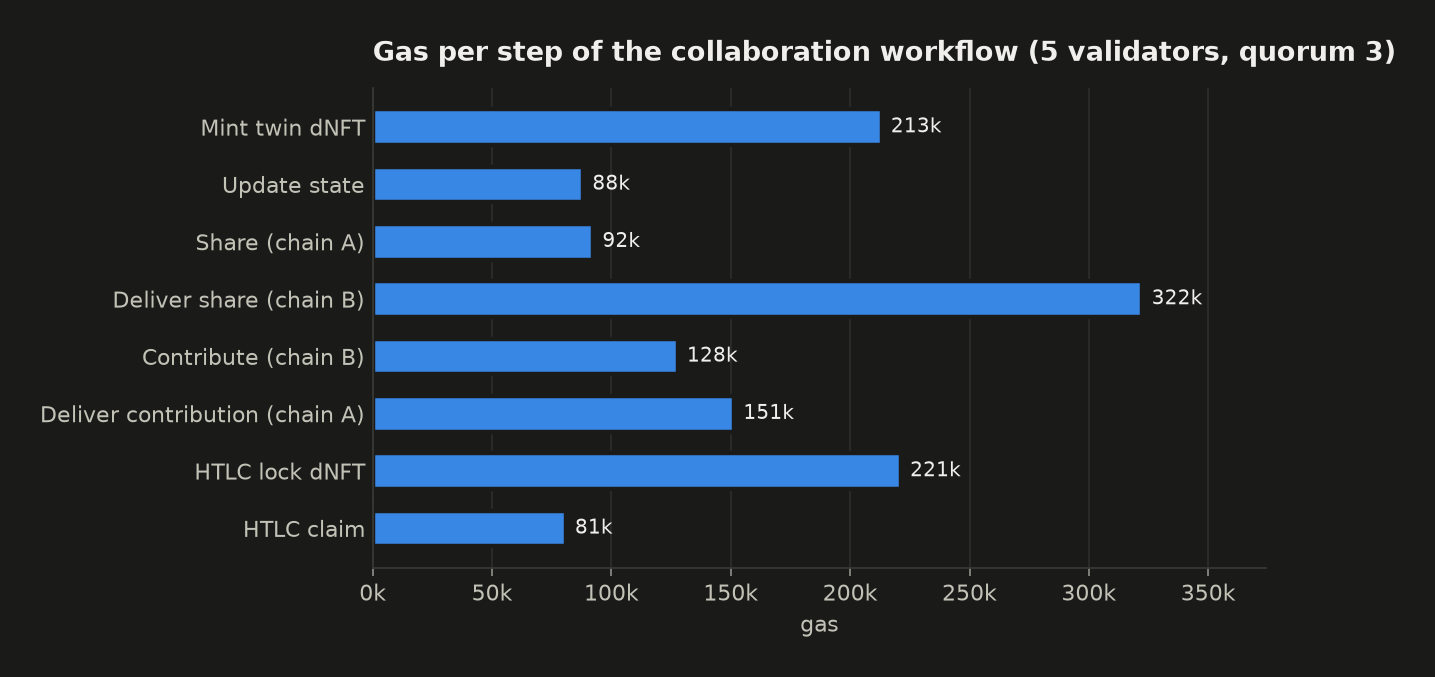
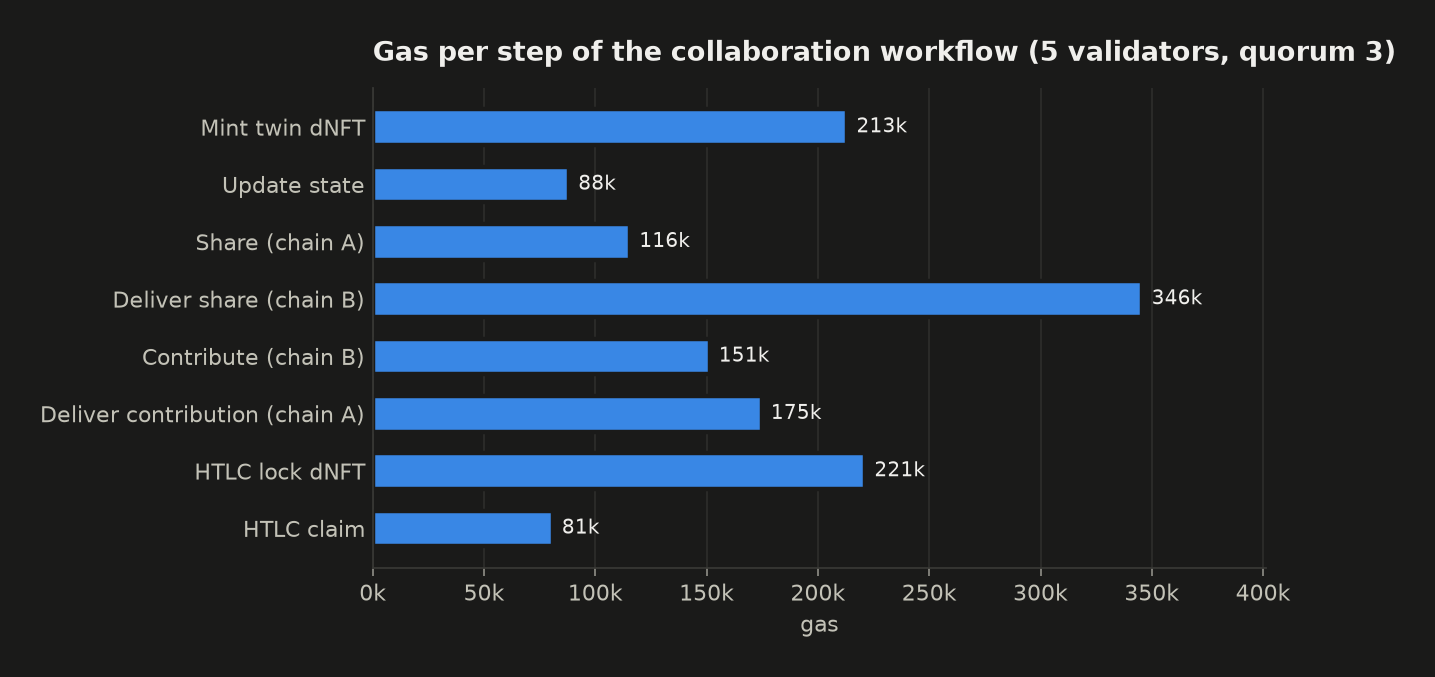
WP1 D1.3: bind attestations to the gateway, order twin messages per channel
R1: the attestation digest now includes the destination chain ID and gateway
address (tag DeDT-L3/attest/v2), so signatures collected for one gateway cannot
be reused on another deployment with the same domain number and validators.

R2: DigitalTwinDNFT messages carry a sequence number per channel (twin, partner
chain, team, direction) and are applied strictly in order; an early message
reverts and stays deliverable. A contribution that arrives after a revoke is
consumed with a ContributionRejected event so it never blocks the channel.

55 tests pass; gas results, figures and README updated.

diff --git a/wp1-dao-collaboration/test/DigitalTwinDNFT.test.js b/wp1-dao-collaboration/test/DigitalTwinDNFT.test.js
@@ -1,14 +1,23 @@
 const { expect } = require("chai");
 const { ethers } = require("hardhat");
 const { loadFixture } = require("@nomicfoundation/hardhat-toolbox/network-helpers");
-const { relayPending } = require("../lib/l3");
-const { twoChains, DOMAIN_A, DOMAIN_B } = require("./fixtures");
+const { attest, relayPending, utsFromEvent } = require("../lib/l3");
+const { twoChains, DOMAIN_A, DOMAIN_B, THRESHOLD } = require("./fixtures");
 
 const h = (s) => ethers.id(s);
 
 describe("DigitalTwinDNFT over the L3 network (paper Fig. 3, Steps 1–13)", function () {
   const relayAtoB = (f) => relayPending({ source: f.gatewayA, dest: f.gatewayB, validators: f.validators, relayer: f.relayer });
   const relayBtoA = (f) => relayPending({ source: f.gatewayB, dest: f.gatewayA, validators: f.validators, relayer: f.relayer });
+  /** Messages dispatched on chain A for chain B and not yet delivered, in dispatch order. */
+  const pendingAtoB = async (f) => {
+    const evs = await f.gatewayA.queryFilter(f.gatewayA.filters.MessageDispatched(null, DOMAIN_B));
+    const out = [];
+    for (const ev of evs) if (!(await f.gatewayB.delivered(ev.args.id))) out.push(ev);
+    return out;
+  };
+  const deliverOne = async (f, ev) =>
+    f.gatewayB.connect(f.relayer).deliver(utsFromEvent(DOMAIN_A, ev), await attest(ev.args.id, f.validators.slice(0, THRESHOLD), f.gatewayB));
 
   /** Steps 1–2: team #1 launches and develops its twin on chain A. */
   async function minted() {
@@ -96,11 +105,42 @@ describe("DigitalTwinDNFT over the L3 network (paper Fig. 3, Steps 1–13)", fun
       expect(await f.dnftB.mirrorOf(DOMAIN_A, 1, f.team2.address)).to.equal(f.mirrorId);
     });
 
-    it("rejects a contribution that arrives after the share was revoked", async function () {
+    it("rejects a contribution that arrives after the share was revoked, without blocking the channel", async function () {
       const f = await loadFixture(shared);
       await f.dnftB.connect(f.team2).contribute(f.mirrorId, h("in-flight"), ""); // dispatched on B
       await f.dnftA.connect(f.team1).revokeShare(1, DOMAIN_B, f.team2.address); // revoked on A first
-      await expect(relayBtoA(f)).to.be.revertedWithCustomError(f.dnftA, "NotShared");
+      await relayBtoA(f); // delivered, but without effect
+      const [rej] = await f.dnftA.queryFilter(f.dnftA.filters.ContributionRejected());
+      expect(rej.args).to.deep.equal([1n, BigInt(DOMAIN_B), f.team2.address, 0n]);
+      expect(await f.dnftA.historyLength(1)).to.equal(1);
+
+      // after a re-share, the next contribution on the same channel is accepted
+      await f.dnftA.connect(f.team1).shareTwin(1, DOMAIN_B, f.team2.address);
+      await relayAtoB(f); // Revoke, then Share, in order
+      await f.dnftB.connect(f.team2).contribute(f.mirrorId, h("after-reshare"), "");
+      await relayBtoA(f);
+      expect((await f.dnftA.twin(1)).stateHash).to.equal(h("after-reshare"));
+    });
+
+    it("applies messages of a channel strictly in order (revoke, then re-share)", async function () {
+      const f = await loadFixture(shared);
+      await f.dnftA.connect(f.team1).revokeShare(1, DOMAIN_B, f.team2.address); // seq 1
+      await f.dnftA.connect(f.team1).shareTwin(1, DOMAIN_B, f.team2.address); // seq 2
+      const [revoke, reshare] = await pendingAtoB(f);
+
+      // a relayer delivers the re-share first: it is refused and stays deliverable
+      const ch = await f.dnftB.channelId(DOMAIN_A, 1, DOMAIN_B, f.team2.address, false);
+      await expect(deliverOne(f, reshare)).to.be.revertedWithCustomError(f.dnftB, "OutOfOrder").withArgs(ch, 1, 2);
+      expect(await f.gatewayB.delivered(reshare.args.id)).to.equal(false);
+
+      await deliverOne(f, revoke);
+      expect((await f.dnftB.twin(f.mirrorId)).revoked).to.equal(true);
+      await deliverOne(f, reshare);
+      // the final state matches the origin: shared, not revoked
+      expect((await f.dnftB.twin(f.mirrorId)).revoked).to.equal(false);
+      expect(await f.dnftA.sharedWith(1, DOMAIN_B, f.team2.address)).to.equal(true);
+      expect(await f.dnftB.nextInSeq(ch)).to.equal(3);
+      expect(await f.dnftA.nextOutSeq(ch)).to.equal(3);
     });
 
     it("mirrors cannot be transferred and only their holder can contribute", async function () {
@@ -124,8 +164,8 @@ describe("DigitalTwinDNFT over the L3 network (paper Fig. 3, Steps 1–13)", fun
 
       // an attacker contract on chain A dispatches a fake "share" through the real gateway
       const fake = ethers.AbiCoder.defaultAbiCoder().encode(
-        ["tuple(uint8,uint256,address,address,bytes32,string)"],
-        [[0, 1, f.outsider.address, f.outsider.address, h("fake"), ""]]
+        ["tuple(uint8,uint256,address,address,bytes32,string,uint64)"],
+        [[0, 1, f.outsider.address, f.outsider.address, h("fake"), "", 0]]
       );
       await f.gatewayA.connect(f.outsider).dispatch(DOMAIN_B, await f.dnftB.getAddress(), fake);
       await expect(relayAtoB(f)).to.be.revertedWithCustomError(f.dnftB, "UntrustedRemote");

diff --git a/wp1-dao-collaboration/test/L3Gateway.test.js b/wp1-dao-collaboration/test/L3Gateway.test.js
@@ -33,7 +33,7 @@ describe("L3Gateway", function () {
   describe("deliver (Algorithm 4)", function () {
     it("executes the message when a quorum of validators attests it", async function () {
       const { gatewayB, receiver, validators, relayer, uts, id } = await loadFixture(dispatched);
-      const sigs = await attest(id, validators.slice(0, THRESHOLD));
+      const sigs = await attest(id, validators.slice(0, THRESHOLD), gatewayB);
       await expect(gatewayB.connect(relayer).deliver(uts, sigs))
         .to.emit(gatewayB, "MessageDelivered")
         .withArgs(id, DOMAIN_A, await receiver.getAddress(), relayer.address);
@@ -44,20 +44,20 @@ describe("L3Gateway", function () {
 
     it("prevents replay of a delivered message", async function () {
       const { gatewayB, validators, uts, id } = await loadFixture(dispatched);
-      const sigs = await attest(id, validators.slice(0, THRESHOLD));
+      const sigs = await attest(id, validators.slice(0, THRESHOLD), gatewayB);
       await gatewayB.deliver(uts, sigs);
       await expect(gatewayB.deliver(uts, sigs)).to.be.revertedWithCustomError(gatewayB, "AlreadyDelivered").withArgs(id);
     });
 
     it("rejects delivery on the wrong chain", async function () {
-      const { gatewayA, validators, uts, id } = await loadFixture(dispatched);
-      const sigs = await attest(id, validators.slice(0, THRESHOLD));
+      const { gatewayA, gatewayB, validators, uts, id } = await loadFixture(dispatched);
+      const sigs = await attest(id, validators.slice(0, THRESHOLD), gatewayB);
       await expect(gatewayA.deliver(uts, sigs)).to.be.revertedWithCustomError(gatewayA, "WrongDomain");
     });
 
     it("requires a quorum", async function () {
       const { gatewayB, validators, uts, id } = await loadFixture(dispatched);
-      const sigs = await attest(id, validators.slice(0, THRESHOLD - 1));
+      const sigs = await attest(id, validators.slice(0, THRESHOLD - 1), gatewayB);
       await expect(gatewayB.deliver(uts, sigs))
         .to.be.revertedWithCustomError(gatewayB, "InsufficientSignatures")
         .withArgs(THRESHOLD - 1, THRESHOLD);
@@ -65,23 +65,34 @@ describe("L3Gateway", function () {
 
     it("rejects duplicate, unsorted or unknown signers", async function () {
       const { gatewayB, validators, uts, id } = await loadFixture(dispatched);
-      const sigs = await attest(id, validators.slice(0, THRESHOLD));
+      const sigs = await attest(id, validators.slice(0, THRESHOLD), gatewayB);
       await expect(gatewayB.deliver(uts, [sigs[0], sigs[0], sigs[1]])).to.be.revertedWithCustomError(gatewayB, "UnsortedOrDuplicateSigner");
       await expect(gatewayB.deliver(uts, [...sigs].reverse())).to.be.revertedWithCustomError(gatewayB, "UnsortedOrDuplicateSigner");
 
       const intruders = Array.from({ length: THRESHOLD }, () => ethers.Wallet.createRandom());
-      await expect(gatewayB.deliver(uts, await attest(id, intruders))).to.be.revertedWithCustomError(gatewayB, "UnknownValidator");
+      await expect(gatewayB.deliver(uts, await attest(id, intruders, gatewayB))).to.be.revertedWithCustomError(gatewayB, "UnknownValidator");
     });
 
     it("rejects a tampered payload", async function () {
       const { gatewayB, validators, uts, id } = await loadFixture(dispatched);
-      const sigs = await attest(id, validators.slice(0, THRESHOLD));
+      const sigs = await attest(id, validators.slice(0, THRESHOLD), gatewayB);
       await expect(gatewayB.deliver({ ...uts, payload: "0xdeadbeef" }, sigs)).to.be.revertedWithCustomError(gatewayB, "UnknownValidator");
+    });
+
+    it("binds attestations to the destination gateway (no reuse on another deployment)", async function () {
+      const { gatewayB, validators, uts, id } = await loadFixture(dispatched);
+      // a second gateway with the same domain number and the same validators
+      const twin = await ethers.deployContract("L3Gateway", [DOMAIN_B, validators.map((v) => v.address), THRESHOLD]);
+      const sigsForB = await attest(id, validators.slice(0, THRESHOLD), gatewayB);
+      await expect(twin.deliver(uts, sigsForB)).to.be.revertedWithCustomError(twin, "UnknownValidator");
+      await twin.deliver(uts, await attest(id, validators.slice(0, THRESHOLD), twin));
+      expect(await twin.delivered(id)).to.equal(true);
+      expect(await gatewayB.delivered(id)).to.equal(false);
     });
 
     it("can be retried if the recipient reverts", async function () {
       const { gatewayB, receiver, validators, uts, id } = await loadFixture(dispatched);
-      const sigs = await attest(id, validators.slice(0, THRESHOLD));
+      const sigs = await attest(id, validators.slice(0, THRESHOLD), gatewayB);
       await receiver.setFail(true);
       await expect(gatewayB.deliver(uts, sigs)).to.be.revertedWith("receiver failed");
       expect(await gatewayB.delivered(id)).to.equal(false);

diff --git a/wp1-dao-collaboration/lib/l3.js b/wp1-dao-collaboration/lib/l3.js
@@ -11,12 +11,18 @@ function utsFromEvent(originDomain, ev) {
   return { originDomain, destDomain, nonce, sender, recipient, payload };
 }
 
-/** Each validator signs the gateway's attestation digest (EIP-191) for a message ID. */
-async function attest(id, validators) {
+/**
+ * Each validator signs the destination gateway's attestation digest (EIP-191) for a message ID.
+ * The digest binds the destination chain ID and gateway address, so the signatures are valid
+ * only on `dest` (an ethers Contract of the destination L3Gateway).
+ */
+async function attest(id, validators, dest) {
+  const provider = dest.runner.provider ?? dest.runner;
+  const { chainId } = await provider.getNetwork();
   const inner = ethers.keccak256(
     ethers.AbiCoder.defaultAbiCoder().encode(
-      ["bytes32", "bytes32"],
-      [ethers.keccak256(ethers.toUtf8Bytes("DeDT-L3/attest/v1")), id]
+      ["bytes32", "uint256", "address", "bytes32"],
+      [ethers.keccak256(ethers.toUtf8Bytes("DeDT-L3/attest/v2")), chainId, await dest.getAddress(), id]
     )
   );
   const sigs = await Promise.all(
@@ -44,7 +50,7 @@ async function relayPending({ source, dest, validators, relayer, fromBlock = 0 }
   for (const ev of events) {
     const id = ev.args.id;
     if (await dest.delivered(id)) continue;
-    const signatures = await attest(id, validators.slice(0, threshold));
+    const signatures = await attest(id, validators.slice(0, threshold), dest);
     const tx = await dest.connect(relayer).deliver(utsFromEvent(originDomain, ev), signatures);
     await tx.wait();
     deliveredIds.push(id);

diff --git a/wp1-dao-collaboration/scripts/benchmark.js b/wp1-dao-collaboration/scripts/benchmark.js
@@ -19,7 +19,7 @@ async function deliverGas(n) {
   const receiver = await ethers.deployContract("MockReceiver");
   const tx = await a.connect(sender).dispatch(2, await receiver.getAddress(), ethers.hexlify(ethers.randomBytes(32)));
   const ev = (await a.queryFilter(a.filters.MessageDispatched(), tx.blockNumber))[0];
-  const sigs = await attest(ev.args.id, validators.slice(0, t));
+  const sigs = await attest(ev.args.id, validators.slice(0, t), b);
   const receipt = await (await b.deliver(utsFromEvent(1, ev), sigs)).wait();
   return { validators: n, threshold: t, gas: Number(receipt.gasUsed) };
 }
@@ -45,7 +45,7 @@ async function workflowGas() {
   const relay = async (src, dst, origin) => {
     const evs = await src.queryFilter(src.filters.MessageDispatched());
     const ev = evs[evs.length - 1];
-    return gas(dst.deliver(utsFromEvent(origin, ev), await attest(ev.args.id, validators.slice(0, 3))));
+    return gas(dst.deliver(utsFromEvent(origin, ev), await attest(ev.args.id, validators.slice(0, 3), dst)));
   };
 
   const out = {};

diff --git a/wp1-dao-collaboration/scripts/demo.js b/wp1-dao-collaboration/scripts/demo.js
@@ -16,7 +16,7 @@ async function relay(source, dest, validators, relayer) {
   const events = await source.queryFilter(source.filters.MessageDispatched(null, await dest.localDomain()));
   for (const ev of events) {
     if (await dest.delivered(ev.args.id)) continue;
-    const sigs = await attest(ev.args.id, validators.slice(0, threshold));
+    const sigs = await attest(ev.args.id, validators.slice(0, threshold), dest);
     console.log(`           ${threshold}/${validators.length} validators attest ${short(ev.args.id)}; relayer delivers it`);
     const receipt = await (await dest.connect(relayer).deliver(utsFromEvent(origin, ev), sigs)).wait();
     console.log(`           delivered on domain ${await dest.localDomain()} (gas ${receipt.gasUsed})`);

diff --git a/wp1-dao-collaboration/README.md b/wp1-dao-collaboration/README.md
@@ -7,7 +7,7 @@
 [![WP1 contracts](https://github.com/smhbamakan/DeDT-platform/actions/workflows/wp1-contracts.yml/badge.svg)](https://github.com/smhbamakan/DeDT-platform/actions/workflows/wp1-contracts.yml)
 ![Solidity](https://img.shields.io/badge/Solidity-0.8.28-363636?logo=solidity)
 ![Hardhat](https://img.shields.io/badge/Hardhat-2.x-f0d50c?logo=ethereum&logoColor=black)
-![Tests](https://img.shields.io/badge/tests-53%20passing-brightgreen)
+![Tests](https://img.shields.io/badge/tests-55%20passing-brightgreen)
 ![Coverage](https://img.shields.io/badge/coverage-99%25-brightgreen)
 ![Objectives](https://img.shields.io/badge/objectives-O1%20%C2%B7%20O2-1e40af)
 
@@ -282,6 +282,15 @@ The paper's `L3Network` contract shows the idea, but it reintroduces the central
 | 7 | Fixed admin forever | No way to change who validates | **Validator rotation** signed by a quorum of the current set; old approvals cannot be replayed |
 | 8 | Failure handling not specified | A failed delivery could be lost | If the recipient reverts, nothing is marked delivered and the message **can be relayed again** |
 
+### 🔒 Hardening beyond the paper (found during the D1.3 security analysis)
+
+| # | Risk | Fix | Test |
+|---|---|---|---|
+| R1 | Attestations covered only the domains, so two gateways deployed with the same domain number and validators would accept each other's signatures | The attestation digest binds the **destination chain ID and gateway address** (`DeDT-L3/attest/v2`) | *binds attestations to the destination gateway* |
+| R2 | The gateway does not order messages, so a *Revoke* and a later re-*Share* delivered in reverse order left the mirror revoked while the origin considered it shared | **Ordered channels**: each message carries a sequence number per (twin, partner chain, team, direction); an early message reverts and stays deliverable. A contribution that arrives after a revoke is consumed with a `ContributionRejected` event, so it never blocks the channel | *applies messages of a channel strictly in order*; *rejects a contribution … without blocking the channel* |
+
+The first message on a channel stores its sequence counter (≈ 23k gas on each side); later messages on the same channel update it for ≈ 5k.
+
 ---
 
 ## 📊 Results
@@ -310,12 +319,12 @@ Delivery cost is **≈ 126k + 7.9k × signatures**. Adding validators makes the 
 | 22 | 15 | 245,592 |
 | 25 | 17 | 261,458 |
 
-Dispatch cost by payload size: 32 B → 32,429 · 256 B → 37,933 · 1 KB → 63,400 · 4 KB → 185,920 gas. This is why only hashes and URIs of twin data go through the bridge.
+Dispatch cost by payload size: 32 B → 32,429 · 256 B → 37,909 · 1 KB → 63,400 · 4 KB → 185,890 gas. This is why only hashes and URIs of twin data go through the bridge.
 </details>
 
 <picture>
   <source media="(prefers-color-scheme: dark)" srcset="docs/figures/workflow-gas-dark.png">
-  <img alt="Bar chart of gas per workflow step: mint 213k, update 88k, share 92k, deliver share 322k, contribute 128k, deliver contribution 151k, HTLC lock 221k, HTLC claim 81k." src="docs/figures/workflow-gas-light.png" width="720">
+  <img alt="Bar chart of gas per workflow step: mint 213k, update 88k, share 116k, deliver share 346k, contribute 151k, deliver contribution 175k, HTLC lock 221k, HTLC claim 81k." src="docs/figures/workflow-gas-light.png" width="720">
 </picture>
 
 <details>
@@ -324,13 +333,13 @@ Dispatch cost by payload size: 32 B → 32,429 · 256 B → 37,933 · 1 KB → 6
 | Step | Gas |
 |---|---:|
 | Mint twin dNFT | 213,173 |
-| Update state | 88,134 |
-| Share (chain A) | 92,339 |
-| Deliver share (chain B, creates the mirror) | 322,430 |
-| Contribute (chain B) | 127,775 |
-| Deliver contribution (chain A) | 151,384 |
-| HTLC lock dNFT | 221,253 |
-| HTLC claim | 80,822 |
+| Update state | 88,178 |
+| Share (chain A) | 115,601 |
+| Deliver share (chain B, creates the mirror) | 345,778 |
+| Contribute (chain B) | 151,300 |
+| Deliver contribution (chain A) | 174,702 |
+| HTLC lock dNFT | 221,231 |
+| HTLC claim | 80,800 |
 </details>
 
 ### From the paper's evaluation (values transcribed, simulated in the paper)
@@ -368,7 +377,7 @@ Dispatch cost by payload size: 32 B → 32,429 · 256 B → 37,933 · 1 KB → 6
 ```bash
 cd wp1-dao-collaboration
 npm install
-npm test             # 53 tests
+npm test             # 55 tests
 npm run demo         # the paper's 13 steps, end to end (D1.3)
 npm run dao-demo     # the DAO workspace scenario (D1.2) → results/dao.json
 npm run benchmark    # gas measurements → results/gas.json
@@ -403,13 +412,13 @@ python -m venv .venv && .venv/bin/pip install matplotlib numpy   # Windows: .ven
 [Step 11] Algorithm 4: validators verify and sign it
 [Step 12] Relayer submits it to blockchain B
            3/5 validators attest 0x836af4ed…; relayer delivers it
-           delivered on domain 2002 (gas 322502)
+           delivered on domain 2002 (gas 345850)
            team #2 now holds mirror dNFT #1 on B
 
 ━━ Phase 3 · Data using ━━━━━━━━━━━━━━━━━━━━━━━━━━━━━━━━━━━━━━━━
 [Step 13] Team #2 modifies the shared twin; the change flows back to A
            3/5 validators attest 0xaac8ef82…; relayer delivers it
-           delivered on domain 1001 (gas 151420)
+           delivered on domain 1001 (gas 174714)
 
   Provenance of twin #1 on blockchain A:
 ┌─────────┬─────────┬───────────┬───────┬───────────────┐
@@ -451,6 +460,7 @@ python -m venv .venv && .venv/bin/pip install matplotlib numpy   # Windows: .ven
 | `syncTwin` · `revokeShare` | owner | Push the latest state / withdraw access |
 | `contribute(mirrorId, stateHash, uri)` | mirror holder | Updates the mirror and sends the change to the origin (Step 13) |
 | `twin(id)` · `historyLength(id)` · `revisionAt(id, i)` | view | State and provenance (author + chain of every revision) |
+| `channelId(nativeDomain, tokenId, mirrorDomain, team, up)` · `nextOutSeq(ch)` · `nextInSeq(ch)` | view | Ordered channels: next sequence number to send / to accept |
 
 Mirrors are **non-transferable**: access was granted to one specific team.
 </details>
@@ -472,6 +482,7 @@ Mirrors are **non-transferable**: access was granted to one specific team.
 
 - **Trust assumption:** a message is accepted only if at least `threshold` of the `n` validators sign it. With `threshold = ⌊2n/3⌋ + 1`, the bridge tolerates up to ⌊(n−1)/3⌋ faulty or malicious validators.
 - **Liveness:** relaying is permissionless, so anyone can deliver an attested message. Validators that go offline only delay delivery.
+- **Binding and order:** signatures are valid only on the gateway they were collected for (chain ID + address), and twin messages are applied in order per channel (R1, R2 above).
 - **Privacy:** only hashes and URIs cross the bridge. Zero-knowledge ownership proofs (paper §3.6.1) are planned in WP4.
 - **Two domains, one EVM:** tests and the demo simulate chains A and B as two gateways on one local network with different domain IDs. `lib/l3.js` takes ordinary ethers contracts, so the same code can relay between two real RPC endpoints.
 - **DAO:** reputation is earned, so founding members start with more of it. The voting cap limits any single member to 40 % of the vote, and the DAO can rebalance reputation by vote (`grantReputation`, `expelMember`). The L3 validator set is rotated by the validators themselves, not by the DAO, so a captured DAO cannot take over the bridge.
